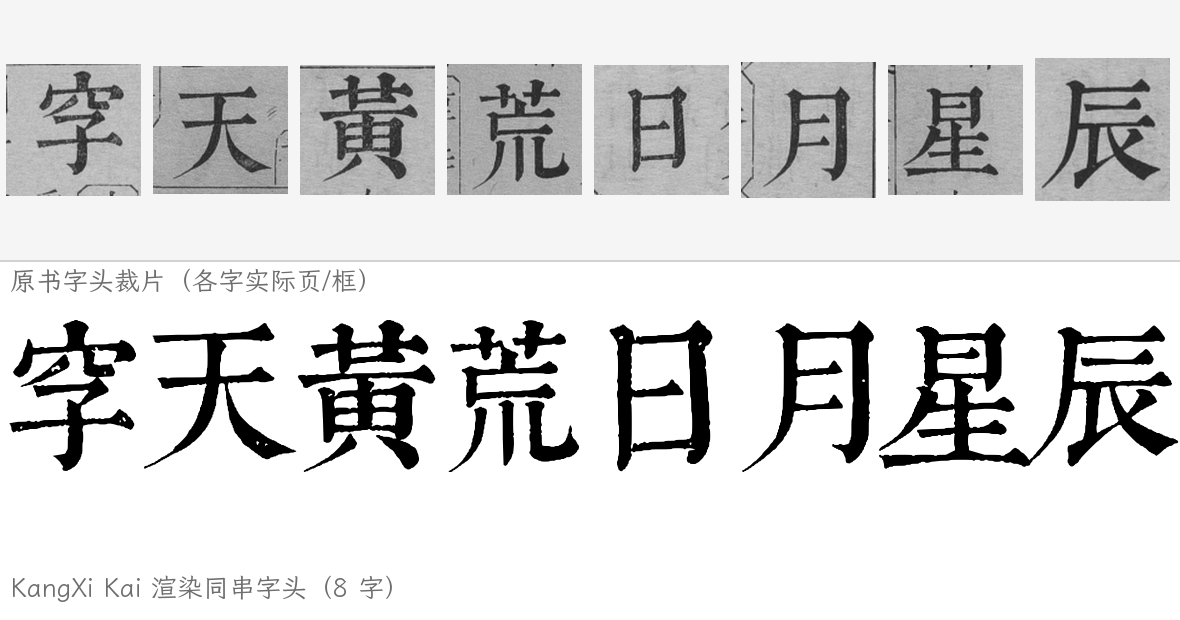
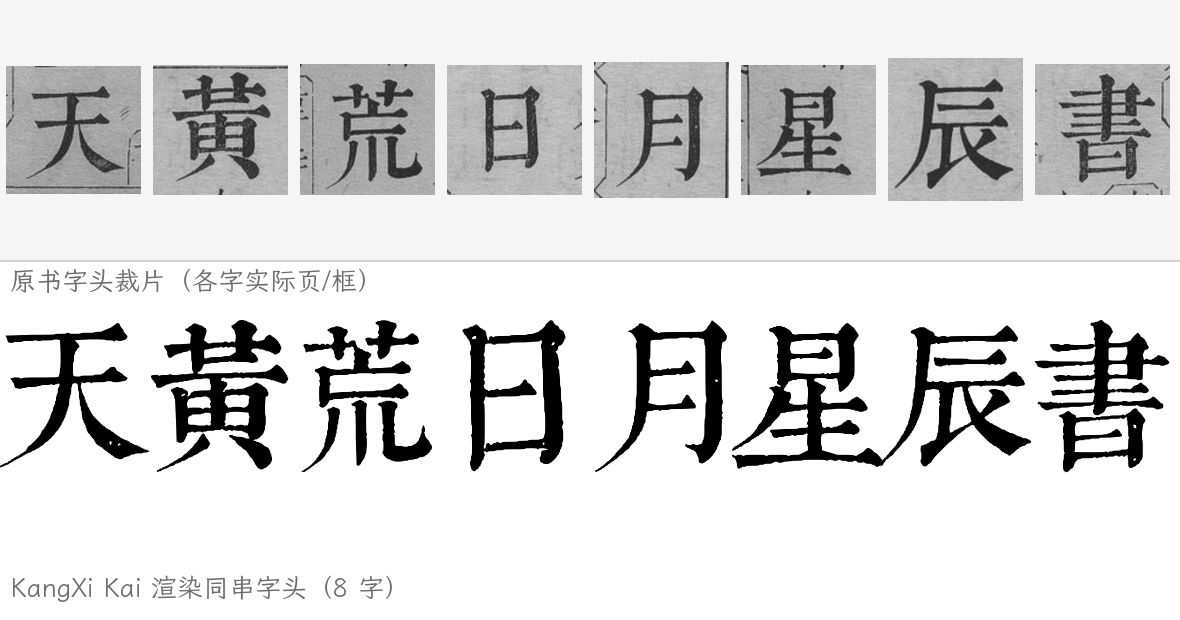
重新打包

Changed region(s): [[0.0, 0.0919, 1.0, 0.3371], [0.5186, 0.521, 1.0, 0.7661], [0.0, 0.521, 0.4881, 0.7661]]

diff --git a/scripts/make_readme_images.py b/scripts/make_readme_images.py
@@ -18,9 +18,12 @@ from PIL import Image, ImageDraw, ImageFont
 
 REF = os.path.join(ROOT, "work", "font", "_fonts", "LXGWWenKai-Regular.ttf")
 OUT = os.path.join(ROOT, "docs", "images")
+# 门脸图不展示已知缺陷字（字：prune 误删宀点/钩；而：旧框带入注文框线，v2.6.3-r1 已修框但样本里先不用）
+EXCLUDE = set("字而")
 
 # 候选样张句（全为常用字；脚本会自动挑选字符全在字表中的句子）
 CANDIDATES = [
+    "天地日月 江河湖海",   # 全在字表内、且不含已知缺陷字/山（山有底线残片）
     "天地玄黃 宇宙洪荒 日月盈昃 辰宿列張",
     "春眠不覺曉 處處聞啼鳥 夜來風雨聲",
     "大學之道 在明明德 在親民 在止於至善",
@@ -37,11 +40,13 @@ def load_chars(manifest):
 def pick_phrase(chars):
     for s in CANDIDATES:
         body = s.replace(" ", "")
+        if any(c in EXCLUDE for c in body):
+            continue
         if all(c in chars for c in body):
             return body
-    # 兜底：从字表里挑 8 个常见字
-    common = "永字八法天地玄黃宇宙洪荒日月星辰"
-    ok = [c for c in common if c in chars]
+    # 兜底：从字表里挑 8 个常见字（排除已知缺陷字）
+    common = "永八法天地玄黃宇宙洪荒日月星辰"
+    ok = [c for c in common if c in chars and c not in EXCLUDE]
     return " ".join("".join(ok[:8]))
 
 
@@ -60,7 +65,7 @@ def draw_spaced(d, text, font, xy, gap=26, fill=0):
     return x
 
 
-def make_specimen(font_path, chars, path):
+def make_specimen(font_path, chars, path, n_total):
     W, H = 1800, 1000
     im = Image.new("L", (W, H), 255)
     d = ImageDraw.Draw(im)
@@ -71,7 +76,7 @@ def make_specimen(font_path, chars, path):
     f_cap = ImageFont.truetype(REF, 26) if os.path.exists(REF) else ImageFont.load_default()
     phrase = pick_phrase(chars)  # 只要求字符齐全；样张优先好看、可读
     sub = "康熙五十五年刊本"
-    sub2 = "楷書字頭"
+    sub2 = "楷書"
     # 标题
     render_line(d, "康熙楷", f_title, (90, 40))
     d.text((W - 90, 120), "KangXi Kai", font=f_cap, fill=110, anchor="ra")
@@ -95,7 +100,7 @@ def make_specimen(font_path, chars, path):
         draw_spaced(d, phrase, f, (96, 620 + i * 60), gap=6)
         d.text((W - 90, 620 + i * 60), f"{size}px", font=f_cap, fill=120, anchor="ra")
     d.line([(90, 900), (W - 90, 900)], fill=200, width=2)
-    d.text((96, 925), "康熙五十五年内刊本《康熙字典》字头真迹 · headword-only · " + "17,005 real glyphs · OFL-1.1",
+    d.text((96, 925), "康熙五十五年内刊本《康熙字典》字头真迹 · headword-only · " + f"{n_total:,} real glyphs · OFL-1.1",
            font=f_cap, fill=120)
     im.save(path)
     print("saved", path)
@@ -134,7 +139,7 @@ def make_glyph_grid(font_path, chars, path):
                    "仁義禮智信溫良恭儉讓中正和平上下左右見聞思學")
     sel = []
     for c in curated:
-        if c not in chars or c in sel:
+        if c not in chars or c in sel or c in EXCLUDE:
             continue
         try:
             if _stray_score(font_path, c) > 0.0:
@@ -179,7 +184,7 @@ def make_book_vs_font(font_path, mapping_path, path, manifest_path):
     """上部=原书字头裁片（每字来自其实际页），下部=当前字体渲染同串字；只选已通过干净度检查的字。"""
     man = json.load(open(manifest_path, encoding="utf-8"))["chars"]
     # 候选：常用、结构有代表性；按顺序过滤出 8 个「字形干净（无游离碎片）」且字表内有的字
-    curated = list("永字八法天地玄黃宇宙洪荒日月星辰楷書字頭點畫結構碑帖翰墨丹青")
+    curated = list("永八法天地玄黃宇宙洪荒日月星辰楷書點畫結構碑帖翰墨丹青")
     bad = set()
     for fn in ("work/lead/review-feedback-v262.json",):
         p = os.path.join(ROOT, fn)
@@ -196,7 +201,7 @@ def make_book_vs_font(font_path, mapping_path, path, manifest_path):
                     pass
     picked = []
     for ch in curated:
-        if ch in picked or ch not in man or ch in bad:
+        if ch in picked or ch not in man or ch in bad or ch in EXCLUDE:
             continue
         try:
             if _stray_score(font_path, ch) > 0.0:
@@ -208,7 +213,7 @@ def make_book_vs_font(font_path, mapping_path, path, manifest_path):
             break
     if len(picked) < 8:  # 兜底：任意干净字
         for ch in sorted(man):
-            if ch in picked or ch in bad:
+            if ch in picked or ch in bad or ch in EXCLUDE:
                 continue
             try:
                 if _stray_score(font_path, ch) <= 0.0:
@@ -242,14 +247,14 @@ def make_book_vs_font(font_path, mapping_path, path, manifest_path):
 
 def main():
     ap = argparse.ArgumentParser()
-    ap.add_argument("--font", default="work/font/build/KangXiKai-v2.6.2.ttf")
-    ap.add_argument("--manifest", default="work/font/build/manifest_v262.json")
-    ap.add_argument("--mapping", default="work/lead/mapping_block_v271.jsonl")
+    ap.add_argument("--font", default="work/font/build/KangXiKai-v2.6.3.ttf")
+    ap.add_argument("--manifest", default="work/font/build/manifest_v263.json")
+    ap.add_argument("--mapping", default="work/lead/mapping_block_v274.jsonl")
     args = ap.parse_args()
     os.makedirs(OUT, exist_ok=True)
     font = os.path.join(ROOT, args.font)
     chars = load_chars(os.path.join(ROOT, args.manifest))
-    make_specimen(font, chars, os.path.join(OUT, "specimen.png"))
+    make_specimen(font, chars, os.path.join(OUT, "specimen.png"), len(chars))
     make_book_vs_font(font, os.path.join(ROOT, args.mapping),
                       os.path.join(OUT, "book-vs-font.png"),
                       os.path.join(ROOT, args.manifest))

diff --git a/README.md b/README.md
@@ -7,9 +7,10 @@
   <img src="docs/images/specimen.png" width="920" alt="KangXi Kai specimen">
 </p>
 
-> **状态：v2.6.2（2026-11-13）** —— 17,005 个真实字头字形，全部取自刻本真迹，无生成字。
+> **状态：v2.6.3（2026-11-14，返工重发 r1）** —— 17,006 个真实字头字形，全部取自刻本真迹，无生成字。
 > 本项目为**字头精选集**（非全字库）；覆盖、限制与发布条件见
-> [覆盖范围](#覆盖范围与限制) 与 [docs/releases/v2.6.2/KNOWN-DEBTS.md](docs/releases/v2.6.2/KNOWN-DEBTS.md)。
+> [覆盖范围](#覆盖范围与限制) 与 [docs/releases/v2.6.3/KNOWN-DEBTS.md](docs/releases/v2.6.3/KNOWN-DEBTS.md)。
+> r1 说明：修复「而」框带入下邻注文框线的边角料；首包门脸图/根 README 未同步的问题已一并修正；「字」的 prune 误删真迹留 v2.6.5 类级修（见 ERRATA E41）。
 
 ## 这是什么
 
@@ -51,10 +52,10 @@
 | 项目 | 内容 |
 |---|---|
 | 家族名 | KangXi Kai（康熙楷） |
-| 字形 | **17,005** 个，全部为刻本字头真迹（headword-only） |
+| 字形 | **17,006** 个，全部为刻本字头真迹（headword-only） |
 | 格式 | TTF（glyf，UPM 1000） |
-| 覆盖 | CJK 基本区 10,267 / 20,992 = **48.91%**；目标字表 10,267 / 16,567 = **61.97%** |
-| 缺口 | 6,300 字（含部分常用字，见下文） |
+| 覆盖 | CJK 基本区 10,268 / 20,992 = **48.91%**；目标字表 10,268 / 16,567 = **61.98%** |
+| 缺口 | 6,299 字（含部分常用字，见下文） |
 | 字符集 | 仅汉字；不含标点、数字、拉丁字母（由排版软件回退） |
 | 数据源 | 《康熙字典》清康熙五十五年内府刊本，[書格 shuge.org](https://shuge.org) 数字化（14 册 / 3,869 页） |
 | 授权 | 字体 SIL Open Font License 1.1（[OFL.txt](OFL.txt)）；代码 MIT（[LICENSE](LICENSE)） |
@@ -70,7 +71,7 @@ PDF 扫描（14 册 / 3,869 页）
    ↓  S3 矢量化：2×2 块掩膜 → 主簇清理 → potrace 轮廓
    ↓  S3 归一化：字墨 bbox 最长边 → 760 font units（UPM 1000）
    ↓  S4 闸：font_qa / 字形级框线 / 内容 / 缺件 / 框线逃逸 / 页级几何 / provenance
-KangXiKai-Regular-v2.6.2.ttf
+KangXiKai-Regular-v2.6.3.ttf
 ```
 
 管线细节与复现命令见 [docs/PIPELINE.md](docs/PIPELINE.md)；流程纪律（候选/正式分层、闸、里程碑）
@@ -78,17 +79,18 @@ KangXiKai-Regular-v2.6.2.ttf
 
 ## 覆盖范围与限制
 
-- **不是全字库**：目标表 16,567 字中已收 10,267 字（61.97%），缺口 6,300 字，含
+- **不是全字库**：目标表 16,567 字中已收 10,268 字（61.98%），缺口 6,299 字，含
   一/件/你/內/合/在/多/張/教/樣/氣/法/清/為/王/相/種/臺/與/被/裡/都/間 等常用字；
   缺字由排版软件自动回退系统字体。
 - **仅字头**：只收字头大字，不收注文小字、不补假字形（部分注文中的字形不在字库内）。
-- **少量已知缺陷**：11 字的 mapping 标签待重定位、165 个缺件扫描项、1,173 个半版（页）尚未完成字头定位，
-  正在 2.6.x 补丁线修复；逐项披露见 [docs/releases/v2.6.2/KNOWN-DEBTS.md](docs/releases/v2.6.2/KNOWN-DEBTS.md)。
+- **少量已知缺陷**：BF-54 基本区 5 字已重定位（愈/急/架/紉/釘）；扩展区 6 字 defer；缺件扫描 **19 字/20 组件**
+  （17 prune 判正确 + 3 scan 残差，披露）；empty_assign **1,172** 个半版尚未完成字头定位；「字」等个别字形存在
+  prune 误删真迹的类级问题（v2.6.5 修）。逐项披露见 [docs/releases/v2.6.3/KNOWN-DEBTS.md](docs/releases/v2.6.3/KNOWN-DEBTS.md)。
 - **不含标点/数字/拉丁字母**；缺字自动回退系统字体。
 
 ## 安装与使用
 
-1. 下载发布包 `KangXiKai-v2.6.2.zip`，解压后安装 `KangXiKai-Regular-v2.6.2.ttf`；
+1. 下载发布包 `KangXiKai-v2.6.3.zip`，解压后安装 `KangXiKai-Regular-v2.6.3.ttf`；
 2. 在排版软件中选择家族名 **KangXi Kai** / Regular；
 3. 缺字（含拉丁字母、标点）由系统字体自动回退。
 
@@ -101,20 +103,20 @@ KangXiKai-Regular-v2.6.2.ttf
 ```bash
 # 字体构建（10 workers，全量约 10.5 分钟；缓存命中约 4 分钟）
 FONT_BUILD_WORKERS=10 .venv/bin/python scripts/font_build.py \
-  --mapping work/lead/mapping_block_v271.jsonl \
-  --out work/font/build/KangXiKai-v2.6.2.ttf --version 2.6.2
+  --mapping work/lead/mapping_block_v274.jsonl \
+  --out work/font/build/KangXiKai-v2.6.3.ttf --version 2.6.3
 
 # 快闸
-.venv/bin/python scripts/fast_gate.py --font work/font/build/KangXiKai-v2.6.2.ttf \
-  --manifest work/font/build/manifest_v262.json --version 2.6.2 \
-  --baseline work/font/build/KangXiKai-v2.5.8.ttf \
-  --baseline-manifest work/font/build/manifest_v258.json --content-max-damaged 35
+.venv/bin/python scripts/fast_gate.py --font work/font/build/KangXiKai-v2.6.3.ttf \
+  --manifest work/font/build/manifest_v263.json --version 2.6.3 \
+  --baseline work/font/build/KangXiKai-v2.6.2.ttf \
+  --baseline-manifest work/font/build/manifest_v262.json --content-max-damaged 18
 
 # 全闸（发布候选；扫描可复用已绑定结果）
-.venv/bin/python scripts/release_gate.py --version 2.6.2 \
-  --font work/font/build/KangXiKai-v2.6.2.ttf --manifest work/font/build/manifest_v262.json \
-  --prev work/font/build/KangXiKai-v2.5.8.ttf --prev-manifest work/font/build/manifest_v258.json \
-  --content-max-damaged 35 --tag v262
+.venv/bin/python scripts/release_gate.py --version 2.6.3 \
+  --font work/font/build/KangXiKai-v2.6.3.ttf --manifest work/font/build/manifest_v263.json \
+  --prev work/font/build/KangXiKai-v2.6.2.ttf --prev-manifest work/font/build/manifest_v262.json \
+  --content-max-damaged 18 --tag v263
 ```
 
 构建输入（mapping / 页级几何 / 线条带）、缓存版本规则与闸定义见 [docs/PIPELINE.md](docs/PIPELINE.md)。
@@ -159,9 +161,9 @@ kangxizidian/
 | [docs/PIPELINE.md](docs/PIPELINE.md) | 现行管线（唯一权威） |
 | [docs/WORKFLOW.md](docs/WORKFLOW.md) | 候选/正式分层、闸分层、里程碑发版纪律 |
 | [docs/reference/RELEASE-METRICS.md](docs/reference/RELEASE-METRICS.md) | 版本对比指标与发版判据 |
-| [docs/releases/v2.6.2/KNOWN-DEBTS.md](docs/releases/v2.6.2/KNOWN-DEBTS.md) · [docs/releases/v2.6.2/SELF-AUDIT.md](docs/releases/v2.6.2/SELF-AUDIT.md) | 本版已知债披露 · 发布前自审计 |
+| [docs/releases/v2.6.3/KNOWN-DEBTS.md](docs/releases/v2.6.3/KNOWN-DEBTS.md) · [docs/releases/v2.6.3/SELF-AUDIT.md](docs/releases/v2.6.3/SELF-AUDIT.md) | 本版已知债披露 · 发布前自审计 |
 | [docs/VERSION-HISTORY.md](docs/VERSION-HISTORY.md) | 逐版变更 |
-| [docs/releases/](docs/releases/README.md) | 正式版发布记录（v2.6.2 起每版一份） |
+| [docs/releases/](docs/releases/README.md) | 正式版发布记录（v2.6.2 起每版一份；v2.6.3 为返工重发 r1） |
 | [docs/reference/EXPERIMENTS.md](docs/reference/EXPERIMENTS.md) | 实验与探索索引（含失败实验，像馆阁体 EXPERIMENTS） |
 | [docs/plans/PLAN-v2.6.3.md](docs/plans/PLAN-v2.6.3.md) · [docs/plans/PLAN-v2.7.0.md](docs/plans/PLAN-v2.7.0.md) | 后续版本计划（v2.7.0：GAN + 带状扫掠生成/回退） |
 | [docs/DECISIONS.md](docs/DECISIONS.md) · [docs/ERRATA.md](docs/ERRATA.md) · [docs/BACKLOG.md](docs/BACKLOG.md) | 口径决策 / 更正记录 / 唯一待办清单 |

diff --git a/docs/PROJECT-STATE.md b/docs/PROJECT-STATE.md
@@ -6,14 +6,14 @@
 
 ## 0. 三十秒快速开始
 
-- **v2.6.3 正式发布候选**（2026-11-14）：字体 sha **`6dd473b9…`**（**17,006** 字；含新增 釕 U+91D5）已过
+- **v2.6.3 正式发布候选**（2026-11-14）：字体 sha **`2414847b…`**（**17,006** 字；含新增 釕 U+91D5；r1 修 `而` 框）已过
   fast_gate **8/8 PASS**；全闸 **12/12 PASS**（内容 0/18 基线 v2.6.2；缺件 19/20 零余量披露；empty_assign 1,172 披露）。
   发布材料：`docs/releases/v2.6.3/{RELEASE,KNOWN-DEBTS,SELF-AUDIT}.md`、`docs/reference/RELEASE-METRICS.md`（含 v2.6.3 列）。
   v2.6.3 = BF-54 基本区 5 字重定位（愈/急/架/紉/釘）+ 旧釘框改标 釕 + BF-06 扫描侧修复（E40：165→19/20）+ T4 证据链。
 - 覆盖：基本区 10,268/20,992 = **48.91%**；目标字表 10,268/16,567 = **61.98%**；缺口 **6,299**。
 - 闸（候选，现行）：font_qa PASS（同框 0）；字形级框线 **0**；框线逃逸 **0**；内容 **0**（v2.6.2 基线；累计 vs v2.5.8=18 披露）；
   provenance PASS；页几何 bad_boxes **0**、empty_assign **1,172**（披露）；缺件 **19 字/20 组件**（17 prune 判正确 + 3 scan 残差）。
-- 构建：mapping `work/lead/mapping_block_v273.jsonl`（v271 + 5 条基本区重定位 + 釕）+ geometry `work/lead/page_geometry.jsonl`
+- 构建：mapping `work/lead/mapping_block_v274.jsonl`（v271 + 5 条基本区重定位 + 釕）+ geometry `work/lead/page_geometry.jsonl`
   + 页级线条带（27 rect）+ 自动缓存版本；clean-HEAD 全量重建 398s（10 workers；T1 改动后首跑），cache 命中约 20s。
 - 关键口径：只收字头真迹（D15）；2×2 格块；pre-cut 排除版面（D22，strip 已摘除 E29）；参考字体唯一 = 霞鹜文楷 OFL（D21）。
 - 未决 owner 决策：**D23 内容判据**（改源墨保真度？）、**00/13 卷是否入字表**、**缺口 6,300 策略（BF-41）**。
@@ -29,12 +29,12 @@
 
 | 产物 | 路径 | 状态 |
 |---|---|---|
-| 当前候选字体 | `work/font/build/KangXiKai-v2.6.3.ttf`（sha `6dd473b9…`，17,006 字） | **fast_gate 8/8 PASS**；全闸 **12/12 PASS**（内容 0/18、缺件 19/20、empty_assign 1,172 均披露） |
+| 当前候选字体 | `work/font/build/KangXiKai-v2.6.3.ttf`（sha `2414847b…`，17,006 字；r1） | **fast_gate 8/8 PASS**；全闸 **12/12 PASS**（内容 0/18、缺件 19/20、empty_assign 1,172 均披露） |
 | **v2.6.3 正式包（本版）** | `release/KangXiKai-v2.6.3/` + `KangXiKai-v2.6.3.zip` | 2026-11-14 发布；material staging `work/release/v2.6.3`；finalize 结果以包内 `FINALIZE.json` + `release/RELEASE-INVENTORY.tsv` 为准 |
 | v2.6.2 正式包（上一版） | `release/KangXiKai-v2.6.2/` + `.zip` | ✅ 2026-11-14 finalize 17/17（font `a8bb87d9…`；内容 35 / 缺件 165 / empty 1,173 / 框线 0 披露） |
 | 历史预览包 | `release/_preview/KangXiKai-v2.6.2-preview`（旧证据，b73e9f01 时代） | 已被正式包取代，保留备查 |
 | 发布材料 | `README.md`、`LICENSE`、`OFL.txt`、`docs/reference/RELEASE-METRICS.md`、`docs/releases/v2.6.2/KNOWN-DEBTS.md`、`scripts/templates/README-TEMPLATE.md`、`docs/images/` | 2026-11-13 补齐 |
-| 构建输入·mapping | `work/lead/mapping_block_v273.jsonl`（17,006 字；v271/v272 留档） | 唯一真源 |
+| 构建输入·mapping | `work/lead/mapping_block_v274.jsonl`（17,006 字；v271/v272/v273 留档） | 唯一真源 |
 | 构建输入·几何 | `work/lead/page_geometry.jsonl`（E30 扩张版；原版 `page_geometry_v1.jsonl`） | 唯一真源 |
 | 构建输入·线条带 | `work/lead/page_line_bands.json`（27 rect，页级数据驱动） | pre-cut 数据 |
 | 构建输入·manifest | `work/font/build/manifest_v263.json` | 由 build_stats 生成 |

diff --git a/docs/VERSION-HISTORY.md b/docs/VERSION-HISTORY.md
@@ -70,7 +70,7 @@
 | v2.6.2-preview | 2026-11-13 | 工程预览（历史，已被 E37 候选取代） | 候选 sha `b73e9f01…`（17,005 字）；fast_gate 8/8 PASS；全闸 8 PASS/3 FAIL（缺件 32、源图框线 1、empty_assign 1,173）；内容 29/35 | 预览包 `release/_preview/` 保留备查；正式包见 v2.6.2（E37）行 |
 | **v2.6.2（正式发布）** | 2026-11-14 | 发布材料 + 自审计 + 正式包 | E37 后候选 sha **`a8bb87d9…`**；发布材料补齐：`README.md`/`LICENSE`/`OFL.txt`/`docs/reference/RELEASE-METRICS.md`/`docs/releases/v2.6.2/KNOWN-DEBTS.md`/`scripts/templates/README-TEMPLATE.md`/`docs/images`；版本对比指标（v2.6.2 vs v2.6.1/v2.5.8）落盘 `work/lead/release-metrics.json` | ✅ **正式包已出（2026-11-14）**：`release/KangXiKai-v2.6.2/` + `.zip`；font sha `a8bb87d9…`；finalize 17/17 PASS；包内 SHA 32 文件（含 `review/` 快照）；zip sha 以 `release/RELEASE-INVENTORY.tsv` 为准；披露阈值：内容 35、缺件 165、empty 1,173、框线 0 |
 
-| **v2.6.3（正式发布）** | 2026-11-14 | 修补（BF-54 基本区标签重定位 + BF-06 扫描修复 + T4 证据链） | E40 修复扫描侧 `precut_masks` fail-open（np 导入 + fail-closed）：缺件披露 165→**19 字/20 组件**（17 prune 判正确 + 3 scan 残差）；BF-54 基本区 5 字重定位（愈/急/架/紉/釘）+ 旧釘框改标 **釕 U+91D5** → 字体 **17,006 字**；mapping v273；T4：OFL 单源 / finalize staging+`FINALIZE.json` / 扫描产物绑定 / `verify_release` / `glyph_diff` / `check_release_docs` 篡改测试；content **0**（v2.6.2 基线；累计 vs v2.5.8=18 披露）；empty_assign **1,172**；round-005 通过 | `work/changesets/cs-20261114-v263-tooling.json`、`cs-20261114-v263-bf06.json`、`cs-20261114-v263-bf54.json` | ✅ 正式包：`release/KangXiKai-v2.6.3/` + `.zip`（finalize 结果以 `release/RELEASE-INVENTORY.tsv` 与包内 `FINALIZE.json` 为准） |
+| **v2.6.3（正式发布 r1，返工重发）** | 2026-11-14 | 修补（BF-54 基本区标签重定位 + BF-06 扫描修复 + T4 证据链；r1 修 `而` 框边角料 + README/门脸图同步） | E40 修复扫描侧 `precut_masks` fail-open（np 导入 + fail-closed）：缺件披露 165→**19 字/20 组件**（17 prune 判正确 + 3 scan 残差）；BF-54 基本区 5 字重定位（愈/急/架/紉/釘）+ 旧釘框改标 **釕 U+91D5** → 字体 **17,006 字**；T4：OFL 单源 / finalize staging+`FINALIZE.json` / 扫描产物绑定 / `verify_release` / `glyph_diff` / `check_release_docs` 篡改测试；content **0**（v2.6.2 基线；累计 vs v2.5.8=18 披露）；empty_assign **1,172**；round-005 通过。**r1**：首包（font `6dd473b9…` / zip `e943182b…`）撤回（E41）；`而` 框收紧为 `[625,358,728,454]`（mapping v274）→ font sha **`2414847b…`**；「字」prune 误删真迹（9→7 轮廓）披露、留 v2.6.5 类级修；根 README/门脸图同步、图内避开已知缺陷字 | `work/changesets/cs-20261114-v263-tooling.json`、`cs-20261114-v263-bf06.json`、`cs-20261114-v263-bf54.json`、`cs-20261114-v263-r1.json` | ✅ 正式包 r1：`release/KangXiKai-v2.6.3/` + `.zip`（finalize 结果以 `release/RELEASE-INVENTORY.tsv` 与包内 `FINALIZE.json` 为准） |
 
 ## 按阶段归纳
 

diff --git a/AGENTS.md b/AGENTS.md
@@ -33,7 +33,7 @@
 
 ## 2. 当前状态（2026-11-14，v2.6.3 已发布）
 
-- **v2.6.3 已发布（2026-11-14）**：`release/KangXiKai-v2.6.3/` + `.zip`；font sha `6dd473b9…`（**17,006 字**，含新增 釕）；fast_gate **8/8 PASS**、全闸 **12/12 PASS**；内容 **0/18（基线 v2.6.2）**、缺件 **19 字/20 组件**（17 prune 判正确 + 3 scan 残差，披露）、empty_assign **1,172**、字形框线/框线逃逸 **0**；发布材料 `docs/releases/v2.6.3/`、`docs/reference/RELEASE-METRICS.md`；本版含 BF-54 基本区 5 字重定位（愈/急/架/紉/釘）+ 釕、BF-06 扫描侧修复（E40：165→19/20）、T4 证据链。下一批 v2.6.4：扩展区 BF-54、prune-by-design 归类、empty_assign、D23 等。
+- **v2.6.3 已发布（2026-11-14）**：`release/KangXiKai-v2.6.3/` + `.zip`；font sha `2414847b…`（**17,006 字**，含新增 釕；r1 修 `而` 框；「字」prune 误删真迹披露，留 v2.6.5）；fast_gate **8/8 PASS**、全闸 **12/12 PASS**；内容 **0/18（基线 v2.6.2）**、缺件 **19 字/20 组件**（17 prune 判正确 + 3 scan 残差，披露）、empty_assign **1,172**、字形框线/框线逃逸 **0**；发布材料 `docs/releases/v2.6.3/`、`docs/reference/RELEASE-METRICS.md`；本版含 BF-54 基本区 5 字重定位（愈/急/架/紉/釘）+ 釕、BF-06 扫描侧修复（E40：165→19/20）、T4 证据链。下一批 v2.6.4：扩展区 BF-54、prune-by-design 归类、empty_assign、D23 等。
 - 历史基线：**v2.6.2 工程候选**（`work/font/build/KangXiKai-v2.6.2.ttf`，sha `a8bb87d9…`（owner 复核反馈修复 E37 后）；**fast_gate 8/8 PASS**）；**v2.6.2 正式包已出（2026-11-14）**：`release/KangXiKai-v2.6.2/` + `.zip`，font sha `a8bb87d9…`，finalize 17/17 PASS（zip sha 见 `release/RELEASE-INVENTORY.tsv`）；披露阈值：内容 35 / 缺件 165 / empty 1,173 / 框线 0。**v2.6.x = 2.6 系列补丁线**：下一批 **v2.6.3**（BF-06 缺件 165、BF-54 标签 11；见 `docs/plans/PLAN-v2.6.3.md`），做不完的计划项顺延 v2.6.4/2.6.5…，不阻塞本系列发版。`release/` 现含 v2.5.8（重构前基线）、v2.6.1（过程版）、**v2.6.2（正式包，2026-11-14）**。
 - 字形 **17,006**（headword-only 真迹；v2.6.3 含新增 釕）；基本区 10,268/20,992 = **48.91%**；目标字表 10,268/16,567 = **61.98%**；缺口 **6,299**。
 - 闸（v2.6.2 候选）：font_qa **PASS**（同框 0）；字形级框线 **0 PASS**（E27 页级线条带）；内容 **18**（阈值 35）PASS——大部分归因为跨架构归一化差异（E31，非真实缺笔；待 D23 确认源墨保真度判据）；provenance PASS；页级几何 **bad_boxes 0** / empty_assign 1,173（唯一严格 FAIL，mapping 缺口）；源图框线 **0**、缺件 **165**（v2.6.2 已发布值；v2.6.3 T1 定位主因=扫描侧 precut fail-open（E40），修复后对 v2.6.2 字体重扫 **19 字/20 组件**；残余 prune/clean_ink/scan 见 E40）。

diff --git a/docs/releases/v2.6.3/RELEASE.md b/docs/releases/v2.6.3/RELEASE.md
@@ -1,10 +1,10 @@
 # RELEASE v2.6.3 · 康熙楷 KangXi Kai
 
 - **发布日期**：2026-11-14
-- **发布类型**：正式包（2.6 补丁线；BF-54 基本区标签重定位 + BF-06 扫描修复 + 证据链修复）
+- **发布类型**：正式包 r1（2.6 补丁线；返工重发：修正「而」框边角料 + 根 README/门脸图同步；BF-54 基本区标签重定位 + BF-06 扫描修复 + 证据链修复）
 - **包路径**：`release/KangXiKai-v2.6.3/` + `release/KangXiKai-v2.6.3.zip`
 - **构建来源**：clean git tree（dirty=false；commit 见包内 `build_recipe-*.json`，本版字体由 clean-HEAD 重建复现）
[2 lines of base64/hex data omitted]
 - **zip sha256**：见 `release/RELEASE-INVENTORY.tsv`（包内 `SHA256SUMS` 覆盖全部非 SHA 文件，含 `review/`）
 - **finalize**：以包内 `FINALIZE.json` + 包外 detached `release/KangXiKai-v2.6.3.FINALIZE.json` 为准（finalize 全链 PASS 才允许出包）
 
@@ -15,7 +15,8 @@
 
 ## 本版改了什么（相对 v2.6.2）
 
-1. **BF-54 基本区标签重定位（5 字）**：愈/急/架/紉/釘 按 2×2 大字块重新定位到真字头；旧釘框实际字改标 **釕 U+91D5**（+1 字）。精确 glyf 轮廓差异：**changed 5 + added 1 + removed 0**（由 `scripts/glyph_diff.py` 生成）。
+1. **BF-54 基本区标签重定位（5 字）**：愈/急/架/紉/釘 按 2×2 大字块重新定位到真字头；旧釘框实际字改标 **釕 U+91D5**（+1 字）。精确 glyf 轮廓差异（vs v2.6.2）：**changed 6（含 r1 修的「而」）+ added 1 + removed 0**（由 `scripts/glyph_diff.py` 生成）。
+   - **r1 返工**：`而` 的 mapping 框下边带入下邻注文框线（边角料）→ 框收紧为 `[625,358,728,454]`（mapping v274）；`字` 的 prune 误删真迹（宀点/钩，9→7 轮廓）留 v2.6.5 类级修，本版披露、门脸图不使用该字。
 2. **BF-06 扫描侧修复（E40）**：`precut_masks.apply_precut_masks()` 补 `import numpy` + fail-closed，修复 crossing 过滤 fail-open；缺件披露从 165（扫描误报为主）更新为 **19 字/20 组件**（17 prune_loss + 3 scan 残差，unknown=0）。
 3. **T4 发布证据链**：OFL 单源、`FINALIZE.json`、finalize staging 原子替换、扫描产物绑定校验、`verify_release`、`check_release_docs` 数值对账/篡改测试、`build_stats` 入包。
 4. 页几何：04_0048 R 补 1 行 → empty_assign **1,173→1,172**；bad_boxes 仍 **0**。

diff --git a/docs/releases/v2.6.3/KNOWN-DEBTS.md b/docs/releases/v2.6.3/KNOWN-DEBTS.md
@@ -1,6 +1,7 @@
 # v2.6.3 已知债与披露（随包发布）
 
-> 本文件是 v2.6.3 **正式发布包**的已知债清单（随包发布，2026-11-14；逐项披露，不宣称清零）。
+> 本文件是 v2.6.3 **正式发布包 r1（返工重发，2026-11-14）**的已知债清单（逐项披露，不宣称清零）。
+> r1 变更：「而」框收紧修掉下邻注文框线；根 README/门脸图同步 v2.6.3；「字」的 prune 误删真迹列入下节（v2.6.5 类级修）。
 > 指标定义与判据：`docs/reference/RELEASE-METRICS.md`；发布前自审计：`docs/releases/v2.6.3/SELF-AUDIT.md`；
 > 详细证据：`docs/ERRATA.md`（E39/E40）、`docs/BACKLOG.md`、`docs/LAYOUT.md`。
 
@@ -22,7 +23,8 @@
 | 字形级框线 | **0** | glyph_frame_gate PASS |
 | 源图框线逃逸 | **0** | ≤3px@300 亚像素线不计（E37 口径） |
 | clean_ink_loss | 5 组件（旧集） | owner 2026-11-14 复核：模拟保留会找回误删部件，但同时带回边角料（trade-off）→ 本批不改 clean_ink，登记已知债；类级改进排 v2.6.4+ |
-| 剩余边角料 | 少量 | round-005 owner 复核：个别字（#6 釕、#12 廁）仍有少量边角料混入，owner 指示「先不管」，登记 known-debt |
+| 剩余边角料 | 少量 | round-005 owner 复核：个别字（#6 釕、#12 廁）仍有少量边角料混入，owner 指示「先不管」，登记 known-debt；r1 已修「而」的注文框线残片 |
+| 「字」等 prune 误删真迹 | 已确认 1 字 | `字`（U+5B57）构建时 9→7 条轮廓：prune 把宀的点/钩当作字墨 bbox 边缘碎片删除，字形读似「孑」；属**类级 prune 判据**问题，v2.6.5 修（不可单字补丁）。r1 门脸图不使用「字」 |
 
 ## 3. 发布证据链说明
 

diff --git a/docs/ERRATA.md b/docs/ERRATA.md
@@ -423,3 +423,15 @@
   `work/lead/missing-165-stage-attribution.jsonl`、`work/lead/missing-19-stage-attribution.jsonl`、
   `work/lead/bf06-variant-candidates.jsonl`；脚本 `scripts/oneoff/diag_missing_stage.py`、
   `scripts/oneoff/bf06_scan_variant_candidates.py`。
+
+## E41. v2.6.3 首包撤回与 r1 返工（2026-11-14，owner 复核）
+
+- **首包撤回**：v2.6.3 首个正式包（font sha `6dd473b9…`，zip sha `e943182b…`）在 owner 复核中被判返工：
+  ① 仓库根 `README.md` 仍写 v2.6.2（包内 README 是 v2.6.3，根 README 未同步）；
+  ② 门脸图 `docs/images/specimen.png` / 包内 `specimen.png` 中「而」字带入下邻注文框线（边角料未删净）；
+  ③ 同图「字」字形错误：构建链从 9→7 条轮廓，prune 把宀的点/钩当作字墨 bbox 边缘碎片删掉（读似「孑」）。
+- **r1 修复（同版本 v2.6.3 返工重发，owner 决定）**：
+  - `而`：mapping 框改为 `[625,358,728,454]`（mapping v274，仅此 1 条行级改动）→ font sha **`2414847b…`**；
+  - `字`：属类级 prune 判据问题（真迹点/钩被当边缘碎片删除），**不做单字补丁**，本版披露、门脸图不使用该字，留 **v2.6.5** 类级修；
+  - 根 `README.md` 更新到 v2.6.3；门脸图/样张/字形网格按 v2.6.3 字体重生成，图内避开已知缺陷字（字/而/山）。
+- 首包（含旧 zip/FINALIZE）作废，以 r1 包（`release/KangXiKai-v2.6.3/` 重打）为准；本 ERRATA 与 `docs/releases/v2.6.3/*`、`docs/VERSION-HISTORY.md` 为准。

diff --git a/docs/releases/v2.6.3/SELF-AUDIT.md b/docs/releases/v2.6.3/SELF-AUDIT.md
@@ -5,7 +5,7 @@
 
 ## 1. 构建可复现
 
-- clean-HEAD 重建：`git status` clean、`build_stats.git.dirty=false`；字体 sha **`6dd473b9…`** 与候选一致；
+- clean-HEAD 重建：`git status` clean、`build_stats.git.dirty=false`；r1 字体 sha **`2414847b…`**（在 v2.6.3 首包基础上仅改 `而` 的映射框，mapping v274）；
 - mapping `work/lead/mapping_block_v273.jsonl`（仅 5 条基本区行级改动 + 釕；其余行逐字节不变）；
 - manifest 由 build_stats 生成（17,006 字）；`build_recipe` 由 build_stats 派生（cache_ver=算法 sha8+geometry sha12+bands sha12、git commit、真实构建时间、input sha）。
 
@@ -22,6 +22,12 @@
 | fast_gate | **8/8 PASS** | `fast-gate-v263.json` |
 | 变化字 | changed **5** + added **1** + removed **0**（精确轮廓） | `diff-v262-v263.json` / `glyph_diff.py` |
 | release_gate | finalize 结果见包内 `FINALIZE.json` | 包外 detached `release/KangXiKai-v2.6.3.FINALIZE.json` |
+
+## 2bis. r1 返工（2026-11-14）
+
+- 首包（font sha `6dd473b9…`、zip sha `e943182b…`）发现：根 README 仍 v2.6.2；门脸图显示「而」带下邻注文框线、「字」prune 误删宀点/钩。
+- r1 修复：「而」mapping 框 `[625,358,728,454]`（mapping v274）→ 字体 sha `2414847b…`；根 README/门脸图/样张同步 v2.6.3（图内避开「字/而/山」等已知缺陷字）；「字」披露并留 v2.6.5。
+- 首包已撤回并在 ERRATA E41 记录；本文件与包内数字以 r1 为准。
 
 ## 3. 本批声明的变化（不是回归）
 

diff --git a/docs/reference/RELEASE-METRICS.md b/docs/reference/RELEASE-METRICS.md
@@ -21,7 +21,7 @@
 | 页几何 bad_boxes | — | — | 0 | **0** |
 | 空指派半版 | — | — | 1173 | **1172** |
 | fast_gate | — | — | PASS | **PASS** |
-| 相对上一版变化字 | — | — | 617（旧阈值筛集）/ **3,351**（精确轮廓） | **6 = changed 5（急愈架紉釘）+ added 1（釕）+ removed 0** |
+| 相对上一版变化字 | — | — | 617（旧阈值筛集）/ **3,351**（精确轮廓） | **7 = changed 6（急愈架紉釘+而；而属 r1 修）+ added 1（釕）+ removed 0** |
 
 > 注 1（2026-11-14，E39）：v2.6.2 的「617」来自旧候选 b73e9f01 的阈值筛选 diff，对发布字体**不可复算**；
 > 精确 glyf 轮廓差异为 **3,351**（audit4 DATA-401 + Lead 独立复算）。v2.6.3 起该指标由精确轮廓 diff 脚本
